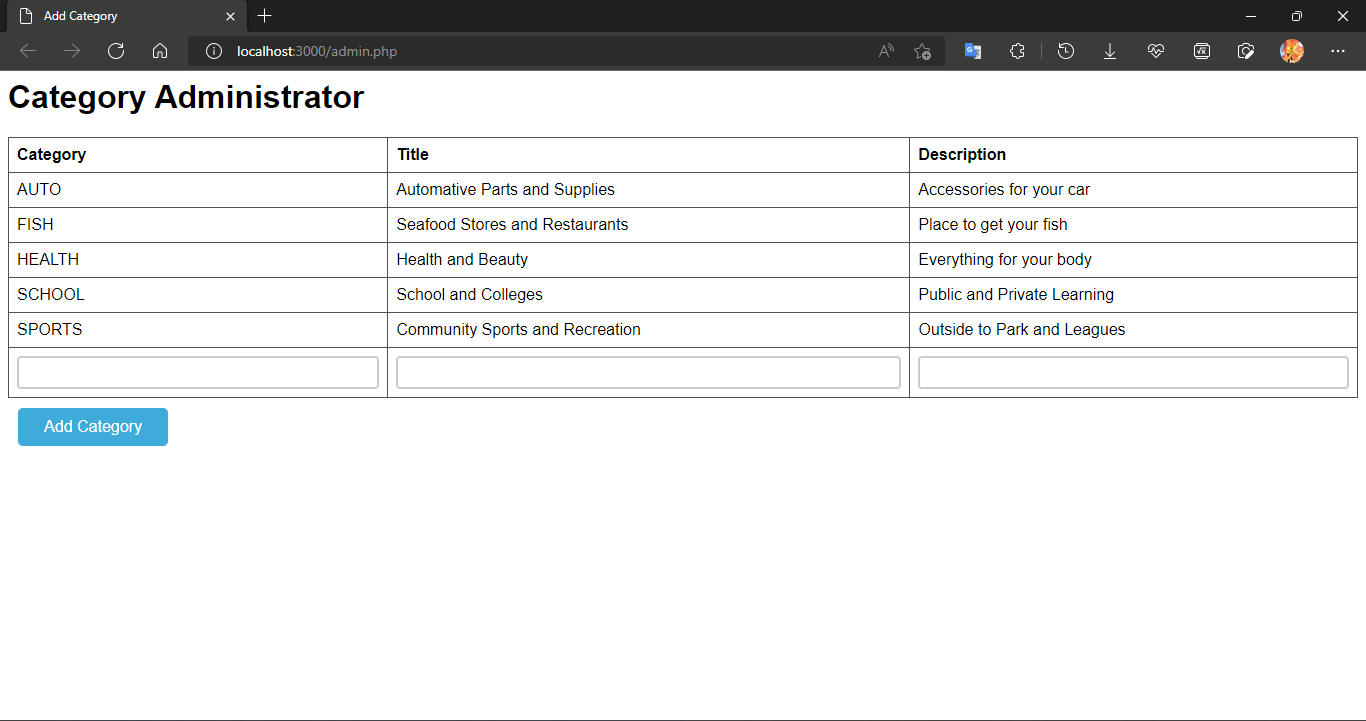
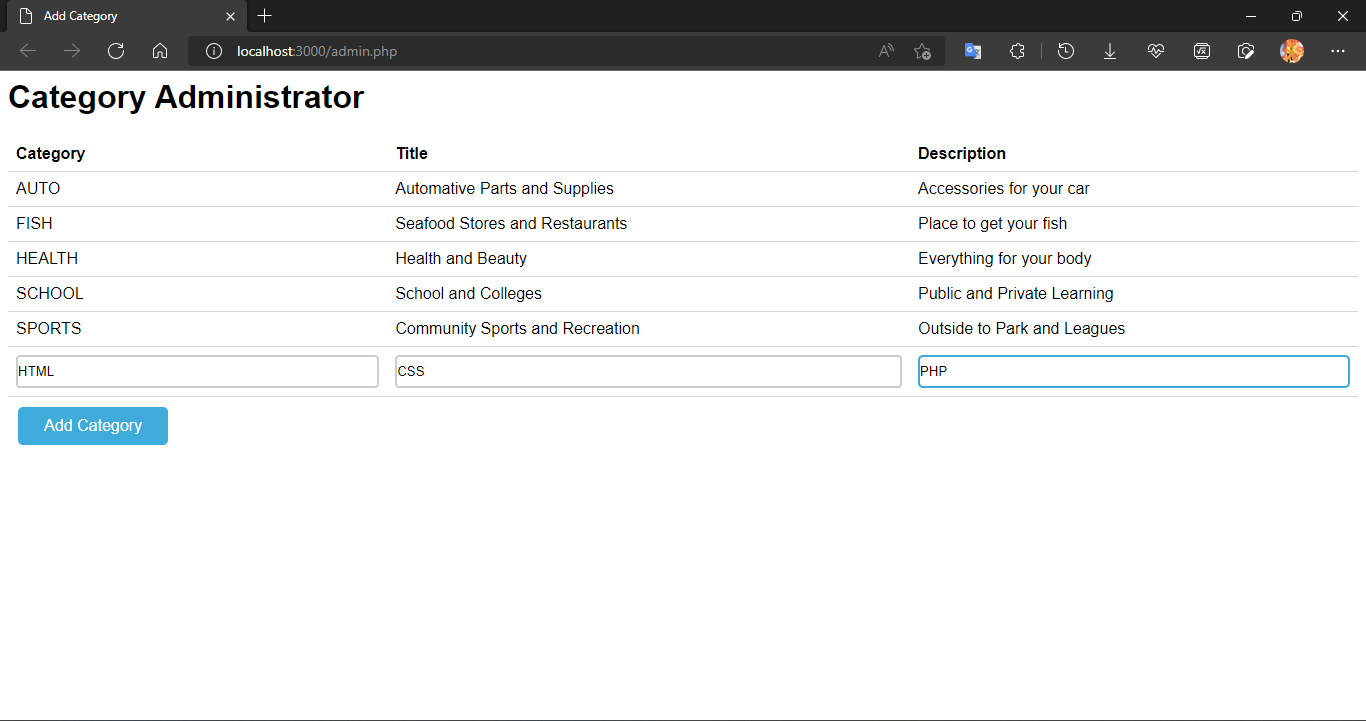
add

Changed region(s): [[0.6457, 0.1831, 1.0, 0.5492], [0.2767, 0.1831, 0.4919, 0.5492], [0.0, 0.1831, 0.123, 0.6103]]

diff --git a/Lab 04/4.5/biz_listing.php b/Lab 04/4.5/biz_listing.php
@@ -96,14 +96,16 @@ if ($result == true) {
     table {
         border-collapse: collapse;
         width: 100%;
-        border: 1px solid #333;
     }
-
+    .category{
+        border: 1px solid #d5d5d5;
+    }
     td,
     th {
-        border: 1px solid #333;
+        border: 1px solid #d5d5d5;
         border-left: none;
         border-right: none;
+        border-top: none;
         text-align: left;
         padding: 8px;
     }
@@ -118,7 +120,7 @@ if ($result == true) {
     <h1>Business Listing</h1>
     <div class="container">
         <div class="categoies">
-            <table>
+            <table class="category">
                 <thead>
                     <tr>
                         <th>Click on a Category to find bussiness listing</th>

diff --git a/Lab 04/4.3/admin.php b/Lab 04/4.3/admin.php
@@ -83,7 +83,10 @@
         th {
             text-align: left;
             padding: 8px;
-            border: 1px solid #515151;
+            border: 1px solid #d5d5d5;
+            border-left: none;
+            border-right: none;
+            border-top: none;
         }
 
         button {
